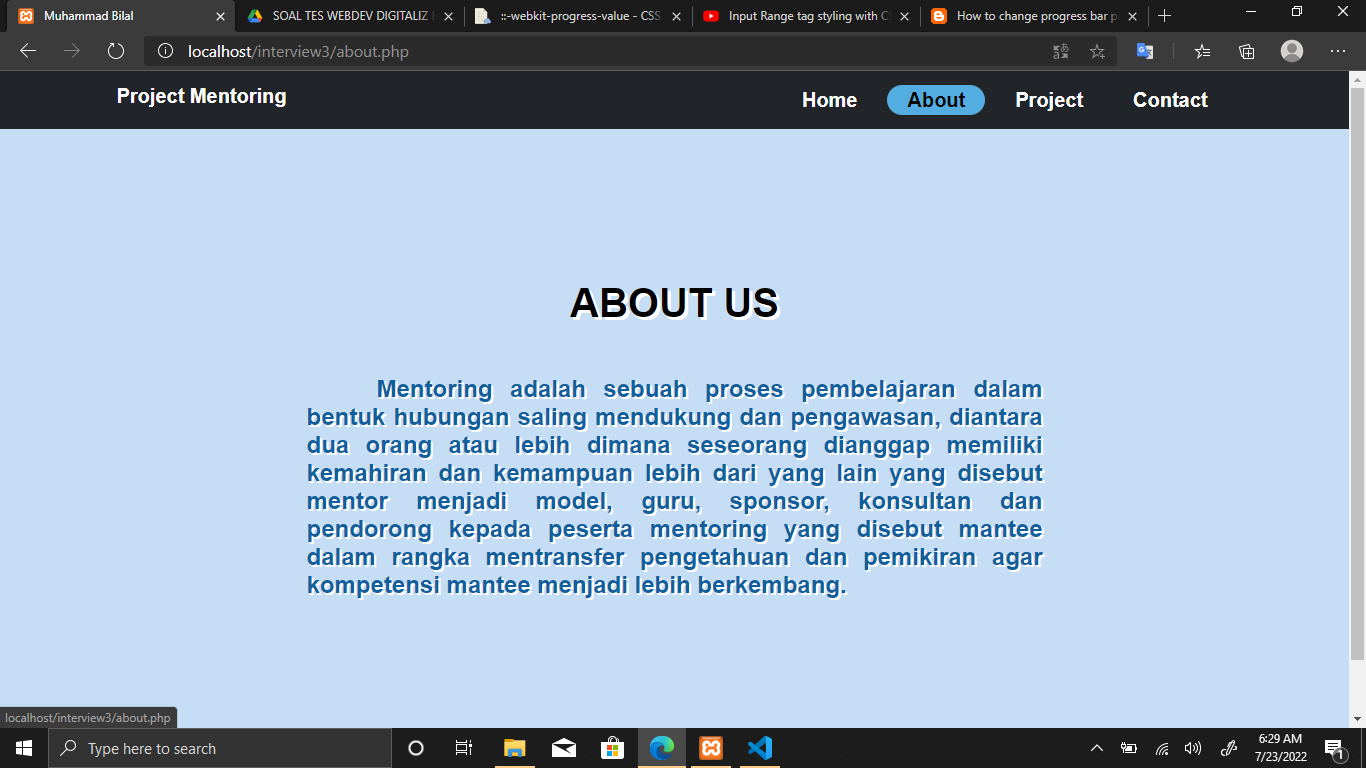
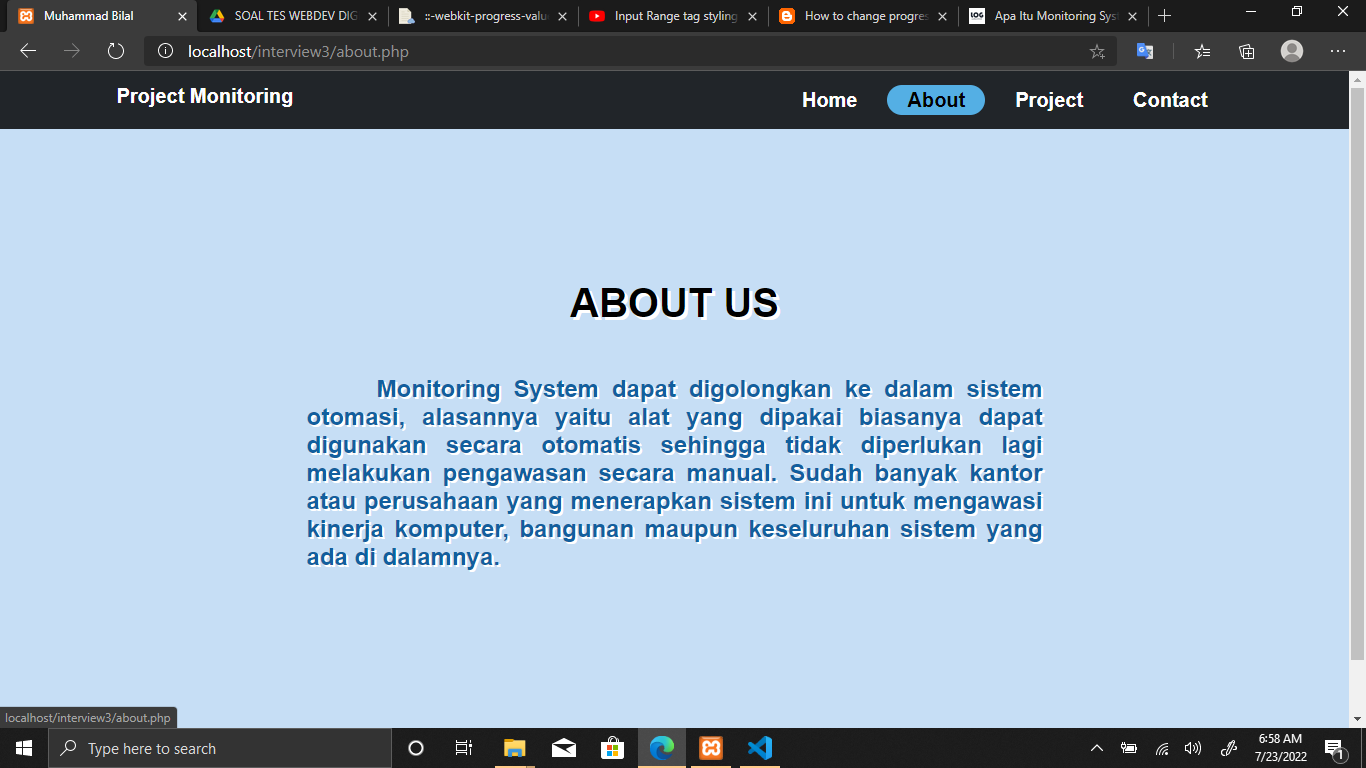
update terbaru branch master interview3

Changed region(s): [[0.2152, 0.5, 0.7687, 0.7812], [0.123, 0.0, 0.8302, 0.0625], [0.1537, 0.0938, 0.2152, 0.1562]]

diff --git a/css/style.css b/css/style.css
@@ -181,6 +181,7 @@ progress::-webkit-progress-bar {
   /* background-color: #6e6767; */
   background-color: #c6def5;
   height: 100vh;
+  height: 100%;
   padding: 50px 0px;
 }
 

diff --git a/tambah.php b/tambah.php
@@ -49,7 +49,7 @@ if (isset($_POST["submit"])) {
             <div class="row justify-content-around">
                 <div class="col-lg-6 col-md-8 col-sm-10">
                     <form action="tambah.php" method="post">
-                        <h1 class="mt-3 text-center mb-5">Tambah Projcet Mentoring</h1>
+                        <h1 class="mt-3 text-center mb-5">Tambah Projcet Monitoring</h1>
 
                         <label for="pname">Project Name </label>
                         <input type="text" class="form-control" name="pname" id="pname" required>

diff --git a/edit.php b/edit.php
@@ -53,7 +53,7 @@ if (isset($_POST["submit"])) {
         <div class="container">
             <div class="row justify-content-around">
                 <div class="col-lg-6 col-md-8 col-sm-10">
-                    <h1 class="mt-3 text-center mb-5">Edit Projcet Mentoring</h1>
+                    <h1 class="mt-3 text-center mb-5">Edit Projcet Monitoring</h1>
                     <form action="" method="post">
                         <input type="hidden" name="id" value="<?= $dktr["id"]; ?>">
 
